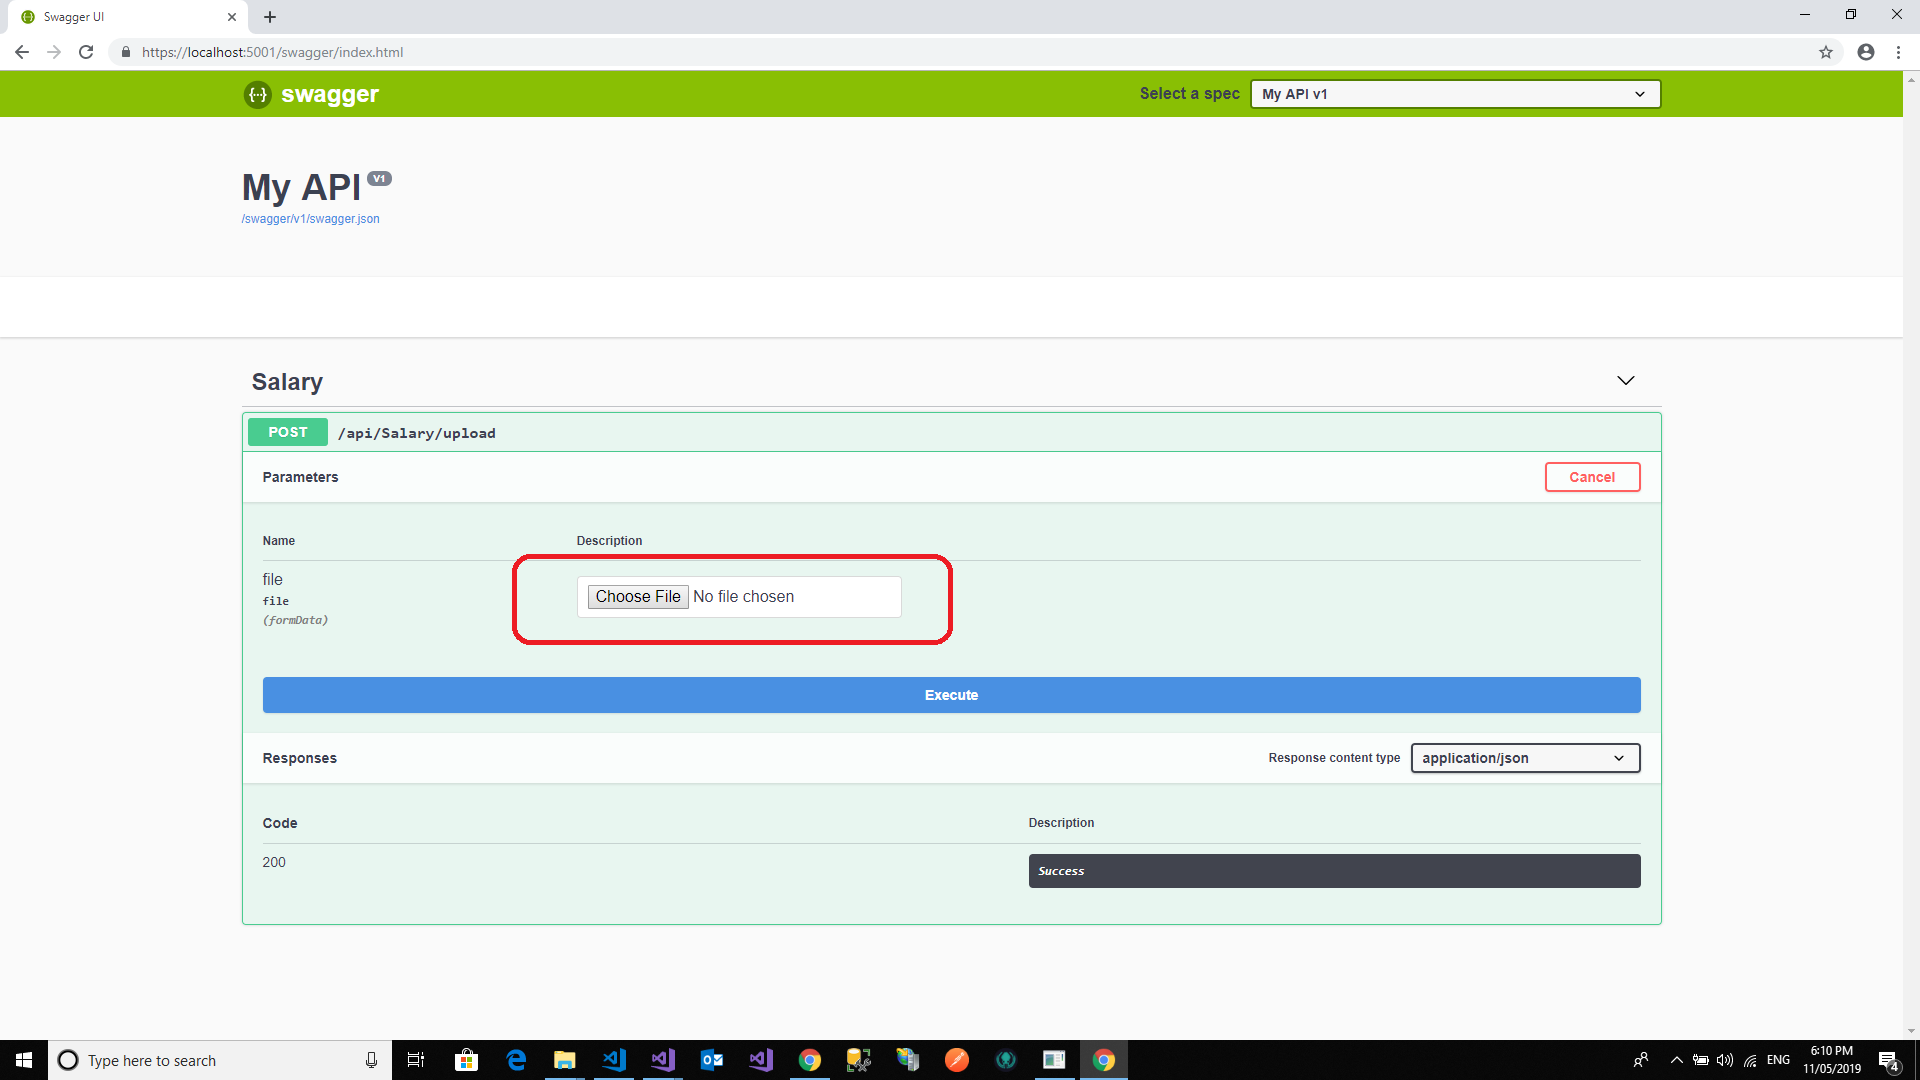
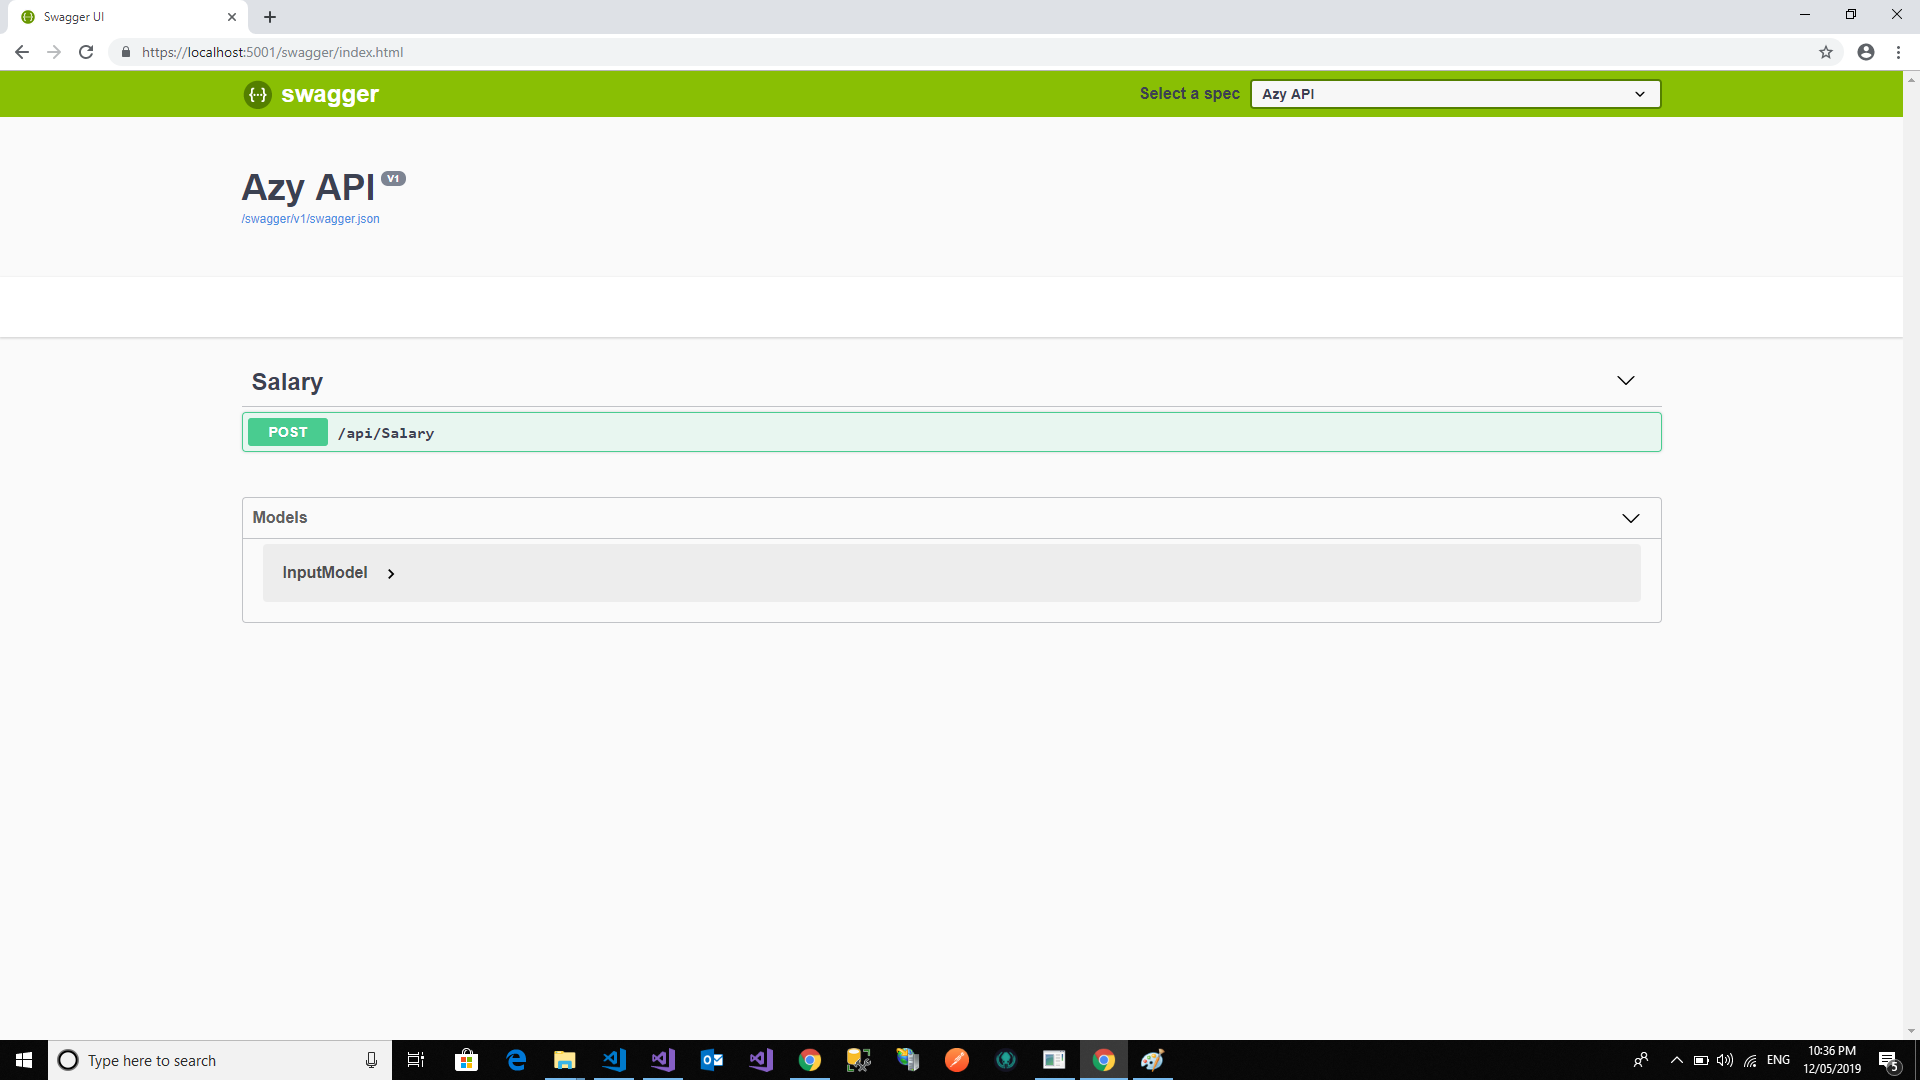
readme update

diff --git a/BYO/Startup.cs b/BYO/Startup.cs
@@ -35,7 +35,7 @@ namespace BYO
             services.AddScoped<ISalaryCalculatorService, SalaryCalculatorService>();
             services.AddSwaggerGen(config =>
             {
-                config.SwaggerDoc("v1", new Info { Title = "My API", Version = "V1" });
+                config.SwaggerDoc("v1", new Info { Title = "Azy API", Version = "V1" });
                 config.OperationFilter<FileOperation>();
             });
 
@@ -60,7 +60,7 @@ namespace BYO
             app.UseSwagger();
             app.UseSwaggerUI(config =>
             {
-                config.SwaggerEndpoint("/swagger/v1/swagger.json", "My API v1");
+                config.SwaggerEndpoint("/swagger/v1/swagger.json", "Azy API");
             });
         }
     }
